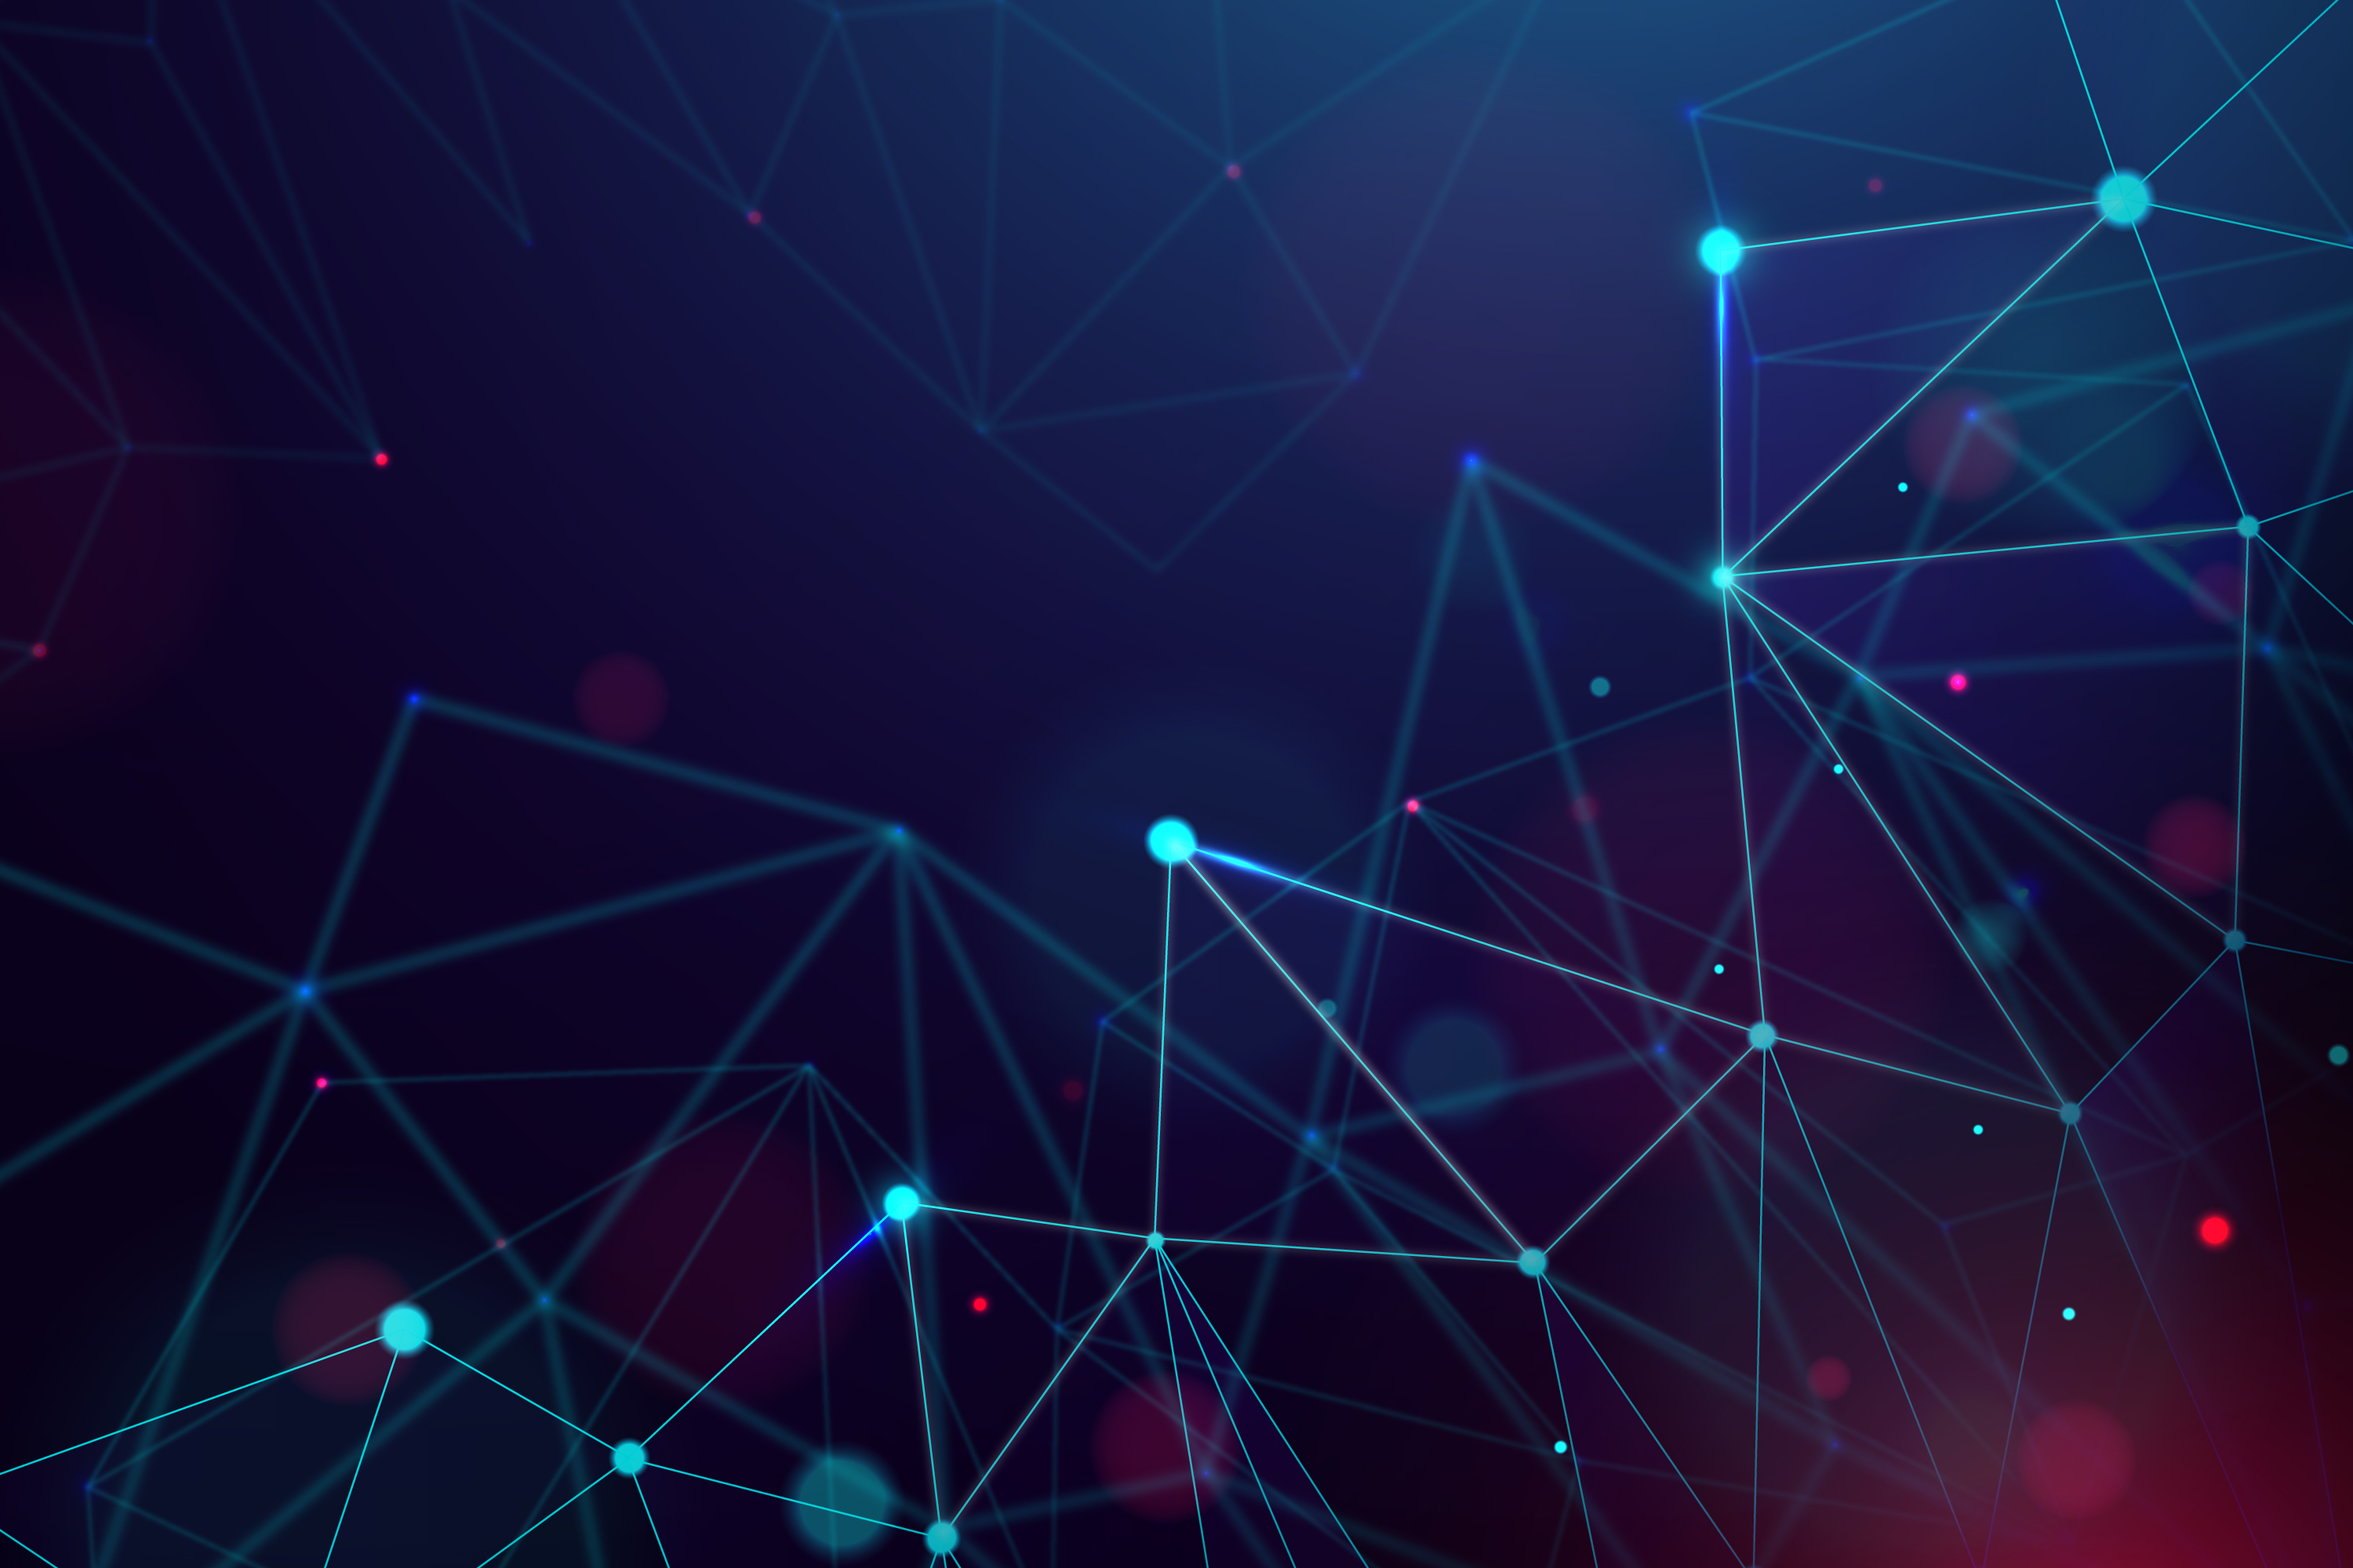
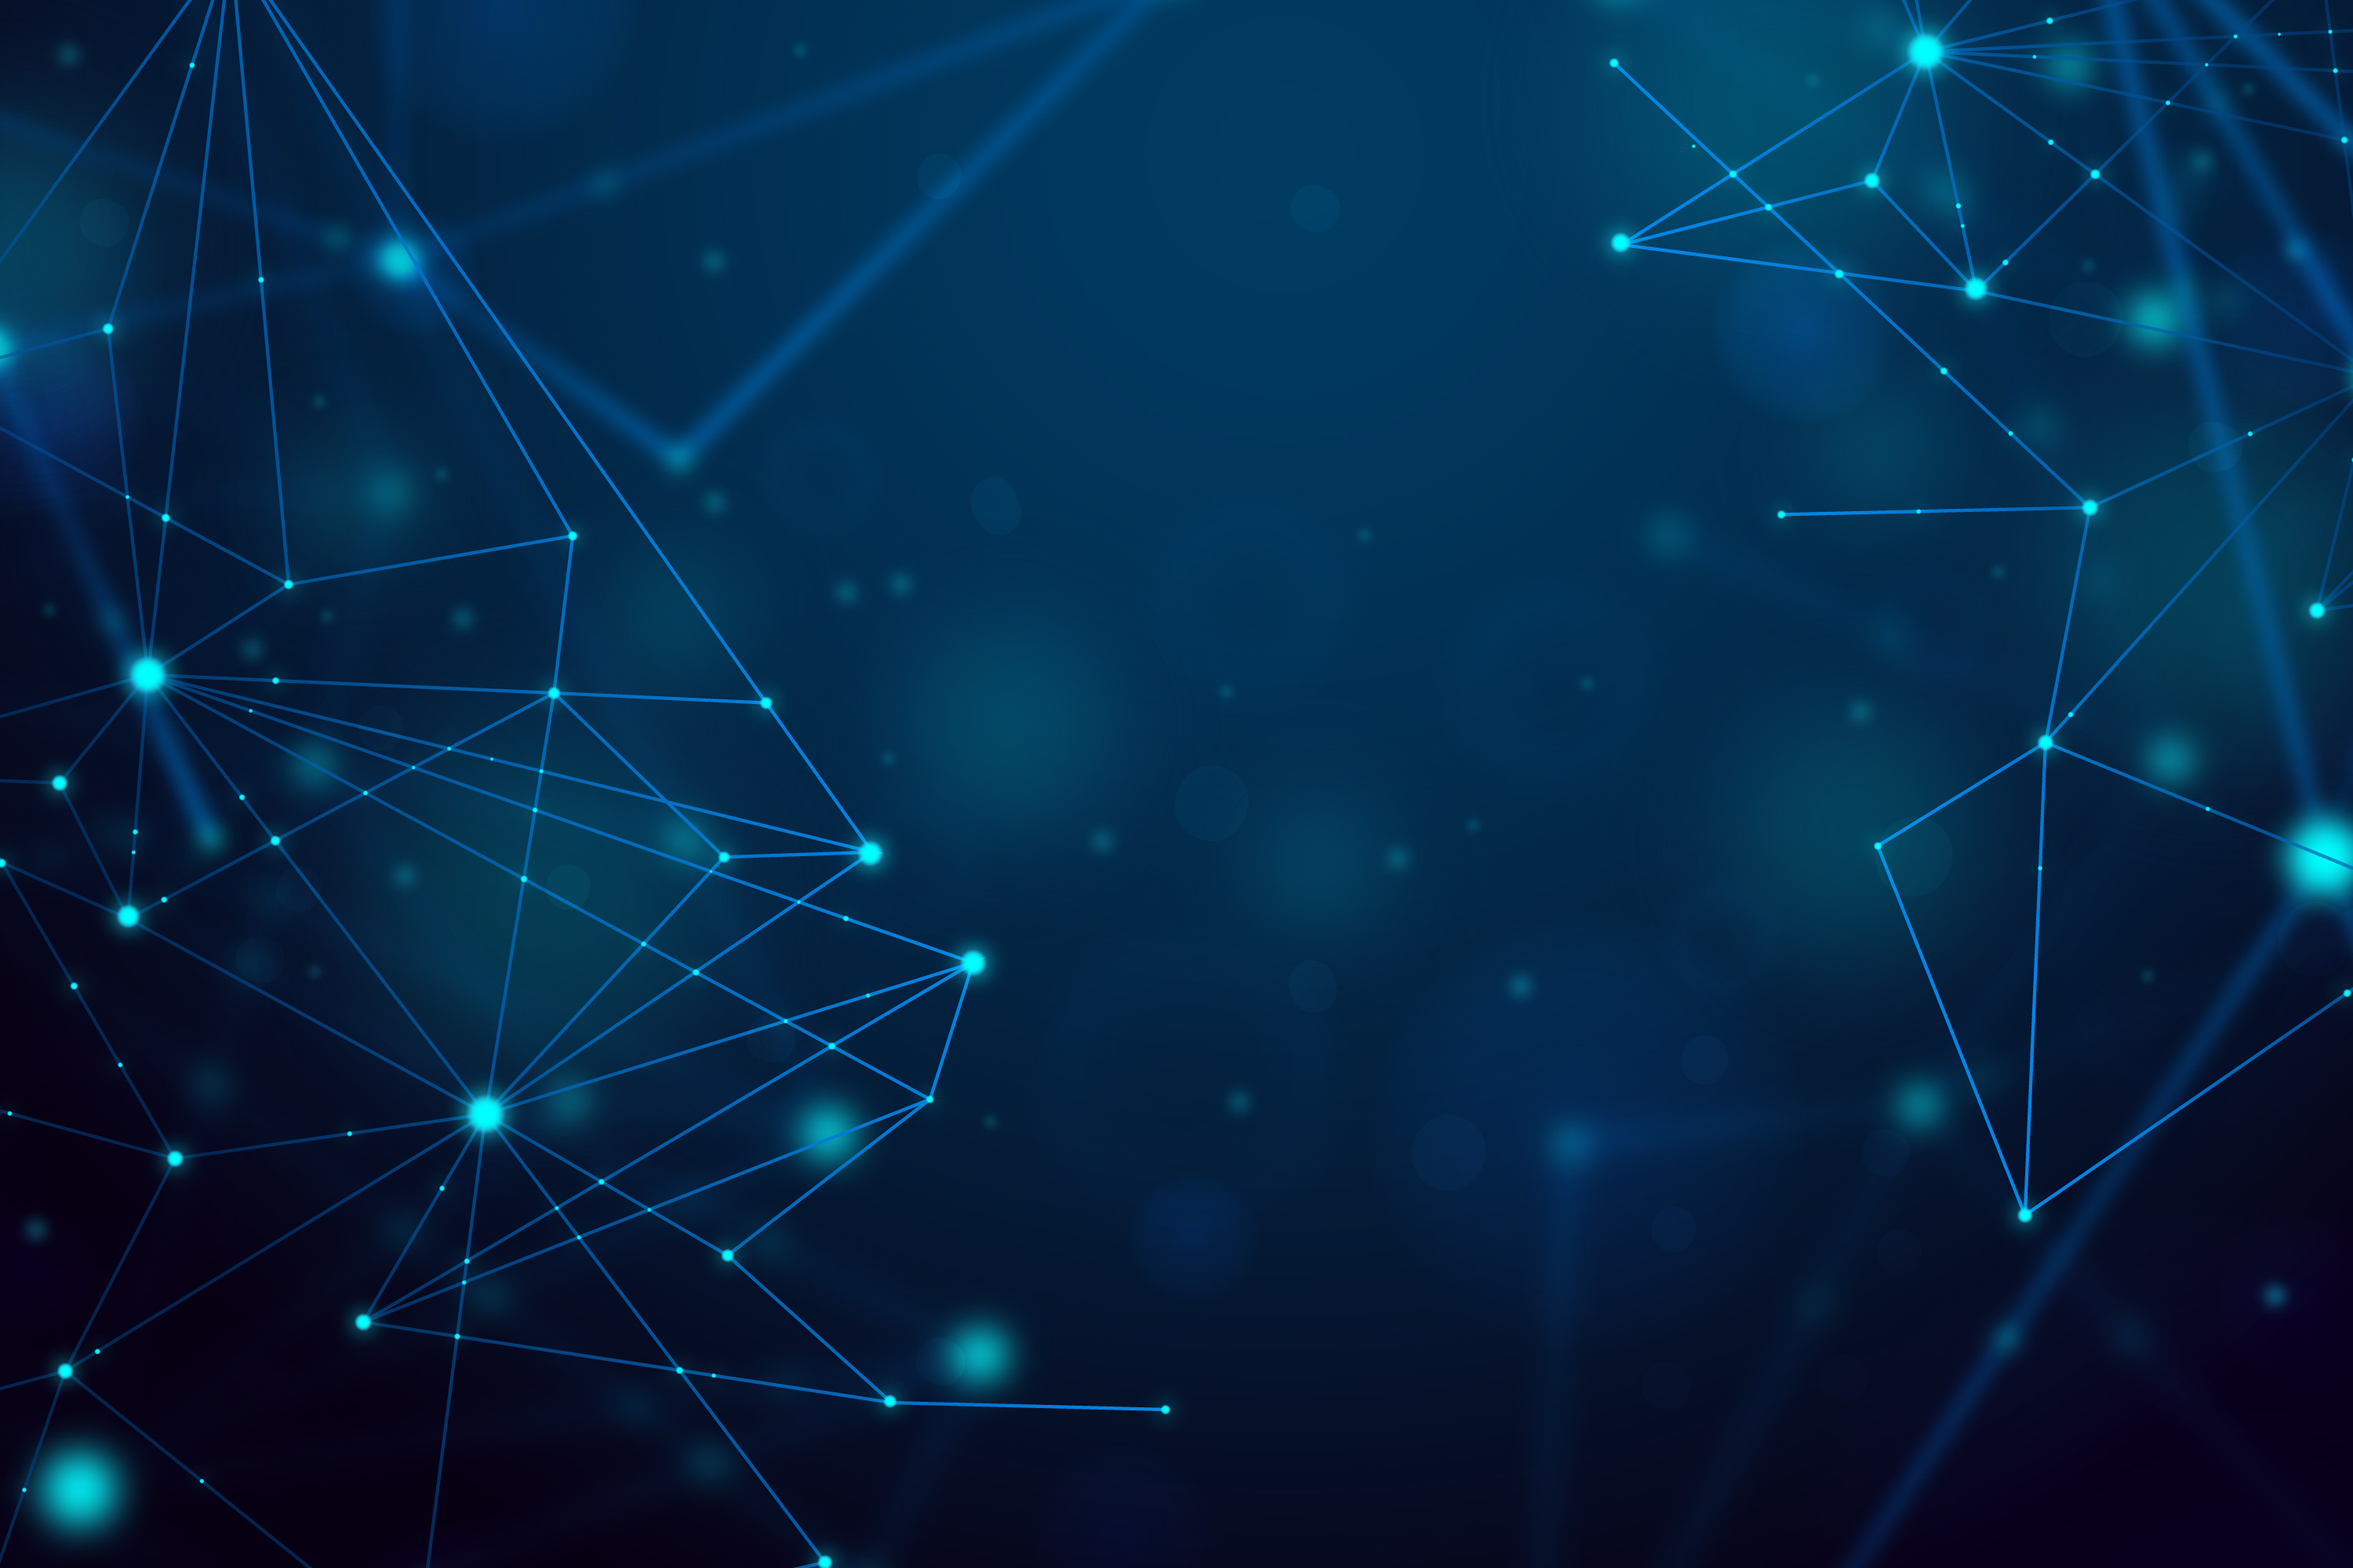
subindo versão 2107

diff --git a/index.html b/index.html
@@ -43,7 +43,7 @@
         <section id="main">
             <div class="titulo-principal">
                 <h1>Segurança Jurídica para o seu mundo digital</h1>
-                <p class="paragrafo-main">Nossas soluções jurídicas asseguram a proteção de sua marca e de seus ativos digitais, ao eliminar vulnerabilidades e  <br>proporcionar segurança jurídica e digital para você e seu negócio</p>
+                <p class="paragrafo-main">Nossas soluções jurídicas asseguram a proteção de sua marca e <br>de seus ativos digitais, ao eliminar vulnerabilidades e  <br> proporcionar segurança jurídica e digital para você e seu negócio.</p>
                 <button class="btn1" type="button">
                     <a class="btn" href="https://wa.me/5511984123328" target="_blank">
                         <img src="imgs//whatsapp.png" alt="">
@@ -186,31 +186,27 @@
             <h2 class="tituloServicos">Porque somos a escolha certa para você</h2>
             <div class="container-conteudo escolha">
                 <div class="container-item-servicos">
-                    <img class="imgIcone" src="./imgs/comunicacao2.png" alt="Comunicação" width="100px">
-                    <h4 class="descricao">Foco no Mercado Digital</h4>
-                    <p class="paragrafo">Foco no mercado digital, com especialistas em crimes 
-                        cibernéticos, atendendo especialmente influenciadores e empreendedores com soluções legais 
-                        personalizadas para cada caso. Nossa equipe oferece uma abordagem humanizada e centrada no cliente, 
-                        tornando o processo objetivo e estratégico. <br><br>Garantimos que nossos clientes recuperem eventuais valores financeiros perdidos e preservem a honra e a imagem de seus negócios através da remoção de informações prejudiciais e compensação por danos causados 
-                        por contas hackeadas ou desativadas nas redes sociais.  </p>
+                    <img class="imgIcone" src="./imgs/foco.png" alt="Comunicação" width="100px">
+                    <h4 class="descricaoServicos">Foco no Mercado Digital</h4>
+                    <p class="paragrafo">Contamos com especialistas em crimes cibernéticos, focados 
+                        especialmente em atender influenciadores e empreendedores, 
+                        oferecendo soluções legais personalizadas para cada situação.</p>
                 </div>
                 <div class="container-item-servicos">
                     <img class="imgIcone" src="./imgs/distancia (1).png " alt="Comunicação" width="100px">
-                    <h4 class="descricao">Serviço Humanizado</h4>
-                    <p class="paragrafo">Profissionais capacitados, com amplo conhecimento em contencioso civil, 
-                        priorizam a resolução de litígios de forma extrajudicial, visando exclusivamente entregar um 
-                        trabalho mais rápido e eficiente para o cliente.<br><br> Focamos também em resolver todas as 
-                        questões relacionadas ao dia a dia e de cunho patrimonial e extrapatrimonial do cliente, 
-                        entendendo suas dores e oferecendo as melhores soluções para cada caso.9</p>
+                    <h4 class="descricaoServicos">Serviço Humanizado</h4>
+                    <p class="paragrafo">
+                        Nossa equipe adota uma abordagem centrada no cliente, com foco na humanização do processo. 
+                        Garantimos que nossos clientes recuperem eventuais perdas financeiras, preservem a reputação de 
+                        seus negócios removendo conteúdos ilícitos que possam prejudicá-los, 
+                        e buscamos indenizações para compensar todos os danos.</p>
                 </div>
                 <div class="container-item-servicos">
                     <img class="imgIcone" src="./imgs/atendimento2.png" alt="atendimento Personalizado" width="100px">
-                    <h4 class="descricao">Segurança Digital Completa</h4>
-                    <p class="paragrafo">Foco no Consumidor, a parte mais vulnerável na relação jurídica, 
-                        garantindo acesso a todos os seus direitos de forma eficiente para que nosso cliente saia 
-                        prejudicicado na relação entre fornecedor/prestador de serviços e cliente.br 
-                        <br><br> Com advogados especializados em consumidor, asseguramos que todos os seus direitos sejam 
-                        respeitados que não haja abusos nos serviços prestados a ele.</p>
+                    <h4 class="descricaoServicos">Segurança Digital Completa</h4>
+                    <p class="paragrafo">Além dos serviços mencionados, cuidamos da estruturação da sua empresa 
+                        oferecendo contratos especializados, como contratos entre agência e especialistas, contratos de co-produção e parcerias, termos de uso e política de privacidade. Também oferecemos assessoria em questões trabalhistas e
+                         em todos os aspectos relacionados ao ambiente digital.</p>
                 </div>
             </div>
         </section>

diff --git a/style.css b/style.css
@@ -96,7 +96,7 @@ h1{
 .titulo{
     text-align: center;
     padding: 1em;
-    color: #f8f1f1;
+    color: #5A0F14;
 }
 
 .tituloServicos{
@@ -124,7 +124,7 @@ h1{
     margin: 15% auto; /* Centraliza o modal verticalmente */
     padding: 20px;
     border: 1px solid #e6e4e4;
-    width: 80%; /* Largura do modal */
+    width: 50%; /* Largura do modal */
   }
 
   .fechar {
@@ -151,7 +151,8 @@ h1{
 #main{
     background-image: url("./imgs/fundo.jpg");
     background-repeat: no-repeat;
-    padding: 13em;
+    padding: 16em;
+    background-position: right;
 }
 
 .titulo-principal{
@@ -167,6 +168,7 @@ h1{
     color: #fefefe;
     margin: 40px;
     font-weight: bold;
+    text-align: left;
 }
 
 
@@ -223,8 +225,8 @@ h1{
     background-color: #fff;
     border: 3px solid #5A0F14;
     flex-direction: row;
-    padding: 40px;
-    margin: 50px;
+    padding: 10px;
+    margin: 5px;
     border-radius: 25px;
     width: 15em;
     height: 15em;
@@ -250,6 +252,15 @@ h1{
     padding: 1em;
     text-align: center;
     margin: -1em;
+    color: #5A0F14;
+}
+
+.descricaoServicos{
+    text-align: left;
+    padding: 1em;
+    text-align: center;
+    margin: -1em;
+    color: #F2F2F2;
 }
 
 
@@ -266,7 +277,7 @@ h1{
     border: 2px solid #1c819d;
     text-align: left;
     width: 22em;
-    height: 50em;
+    
 }
 
 .container-item-servicos:hover{
@@ -298,7 +309,7 @@ h1{
 }
 
 #area-de-atuacao{
-    background: linear-gradient(#161339, #1a4e73);
+    background: linear-gradient(#0F145A, #1a4e73);
 }
 
 #servicos{
@@ -530,9 +541,8 @@ a.footer{
         margin: 1em;
         padding: 1em;
         border: 2px solid #1c819d;
-        text-align: justify;
-        width: 25em;
-        height: 35em;
+        text-align: center;
+        width: 20em;
     }
     
     .sobre-mim{
@@ -568,14 +578,30 @@ a.footer{
       font-size: 18px;
     }
 
+
+.container-item-atuacao {
+    background-color: #fff;
+    border: 3px solid #5A0F14;
+    flex-direction: row;
+    padding: 19px;
+    margin: 10px;
+    border-radius: 25px;
+    width: 15em;
+    height: 15em;
+    display: flex;
+    justify-content: center;
+    align-items: center;
+    text-align: center;
+    align-content: center;
+    flex-wrap: wrap;
+}
+
     .container-item-servicos{
         border-radius: 50px;
         margin: 1em;
         padding: 1em;
         border:2px solid #1c819d;
         text-align: justify;
-
-        height: 40em;
     }
     
     
